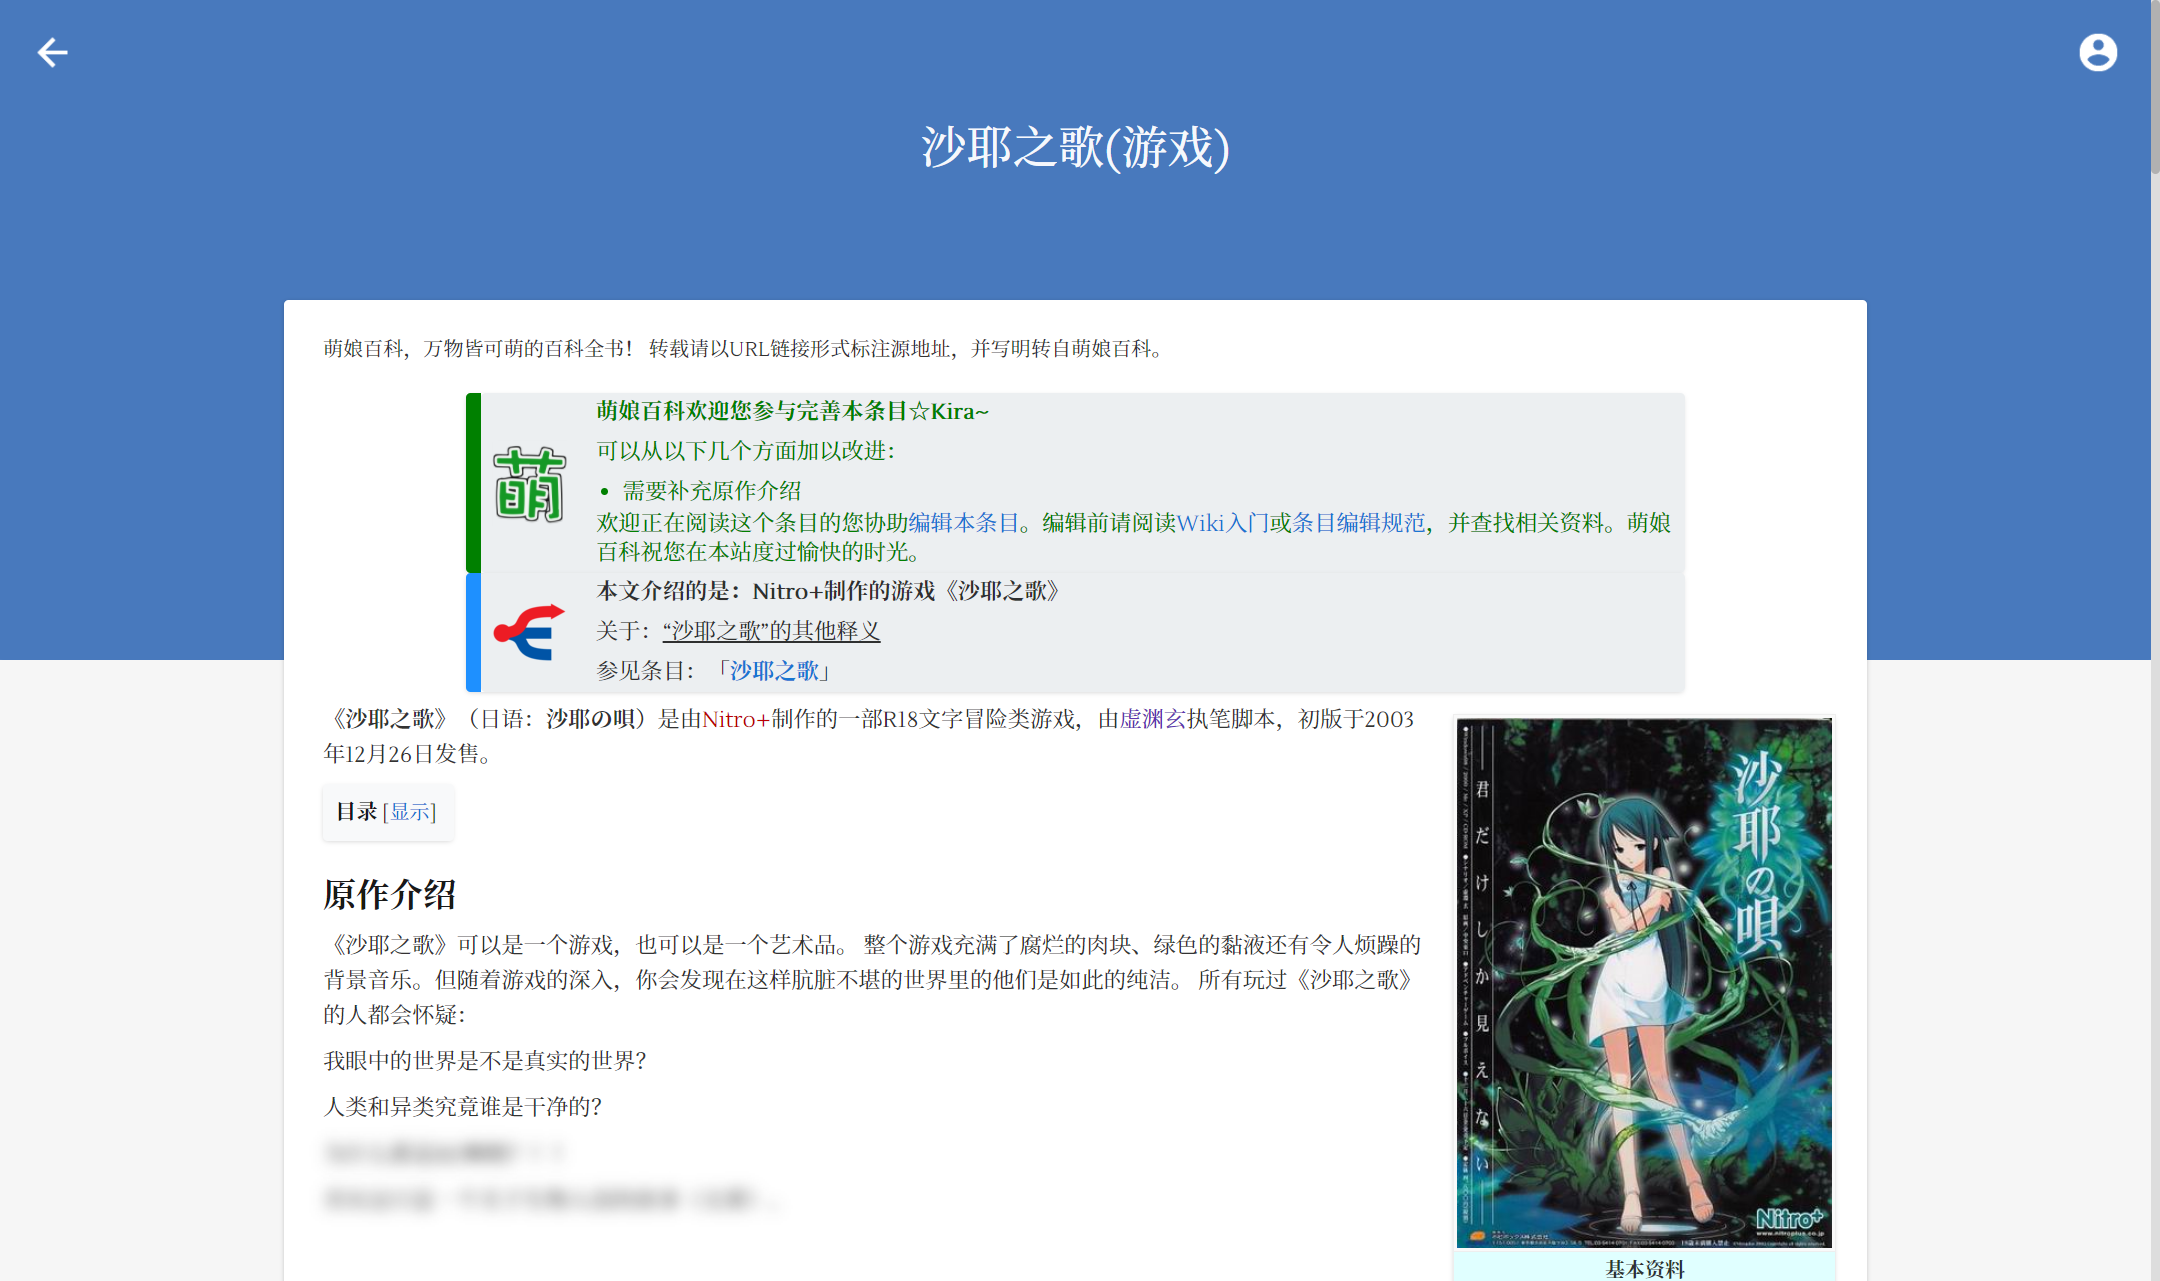
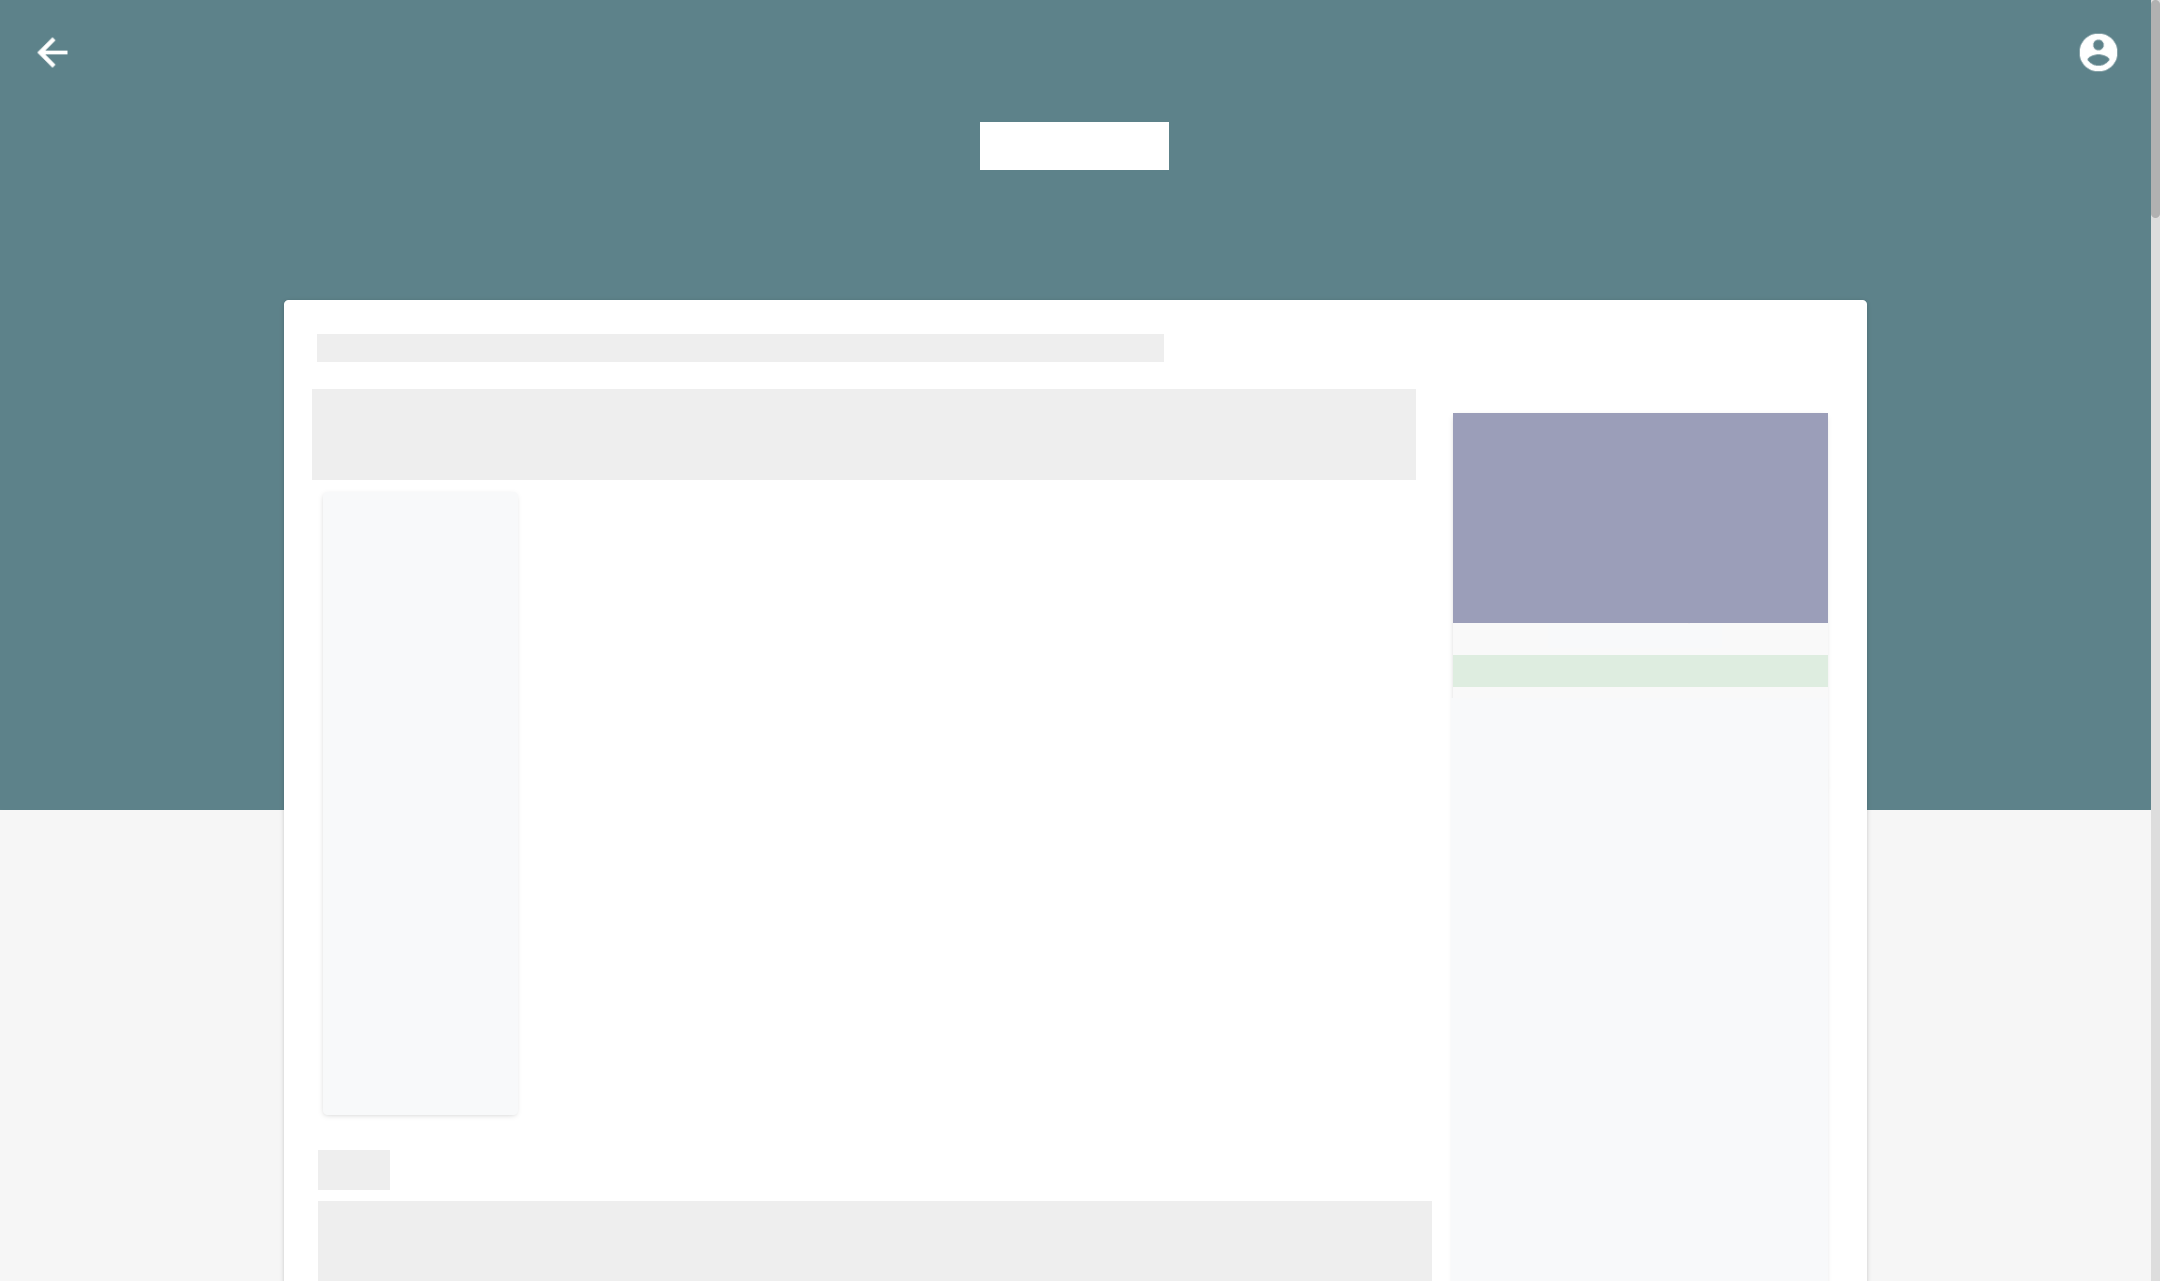
Update.

diff --git a/Anti-moe-wiki/Anti-moe-wiki.css b/Anti-moe-wiki/Anti-moe-wiki.css
@@ -119,7 +119,8 @@ kbd,
 samp,
 .mw-code,
 textarea,
-input {
+input,
+.mw-editfont-monospace {
     font-family: Menlo, Monaco, Consolas, "Andale Mono", "lucida console", "Courier New", "Noto Serif CJK SC", "HanaMinA Regular", "HanaMinB Regular", "TH-Khaai-TP0", "TH-Khaai-TP1", "TH-Khaai-TP2", monospace;
 }
 
@@ -191,8 +192,8 @@ input {
     margin-top: -5em;
     margin-left: 0 !important;
     height: 5em;
-    box-shadow: 0 140px 0 200px #4879BD;
-    background: #4879BD;
+    box-shadow: 0 140px 0 300px #5D828A;
+    background: #5D828A;
     width: 100%;
 }
 
@@ -202,7 +203,7 @@ div#p-personal {
     top: 0;
     right: 0;
     padding: 12px !important;
-    background: #4879BD;
+    background: #5D828A;
     box-shadow: 0 1px 3px 0 rgba(0, 34, 77, .05);
     border-bottom: 1px solid rgba(30, 35, 42, .06);
     justify-content: space-between;
@@ -463,7 +464,8 @@ table.navbox {
 
 pre,
 .mw-code,
-code {
+code,
+.mw-editform #wpTextbox1 {
     background: #2D2D2D;
     color: rgba(255, 255, 255, 0.8);
     border-radius: 3px;
@@ -472,7 +474,8 @@ code {
 pre::selection,
 pre a::selection,
 .mw-code::selection,
-code::selection {
+code::selection,
+.mw-editform #wpTextbox1::selection {
     color: #669900;
     background: none;
 }

diff --git a/README.md b/README.md
@@ -1,18 +1,24 @@
 # CSS-archives
-Selfish designs.
+Selfish designs by [Inchei](https://inchei.github.io).
 ## Anti Moe Wiki
-![Preview](https://raw.githubusercontent.com/inchei/CSS-archives/master/preview/preview02.png)
+### Feature
+<img src="https://raw.githubusercontent.com/inchei/CSS-archives/master/preview/preview02.png" width="500px"/>
+
 ### Environment
 * [Moegirl Wiki](https://zh.moegirl.org).
+* Other Wikis based on [Mediawiki](https://mediawiki.org)
 
 ### Usage
 * Paste the code into your vector.css and vector.js pages.
 * Edit your vector.css or vector.js pages to extend it.
 
 ## Fake Material Design Bangumi
-![Preview](https://raw.githubusercontent.com/inchei/CSS-archives/master/preview/preview01.png)
+### Feature
+<img src="https://raw.githubusercontent.com/inchei/CSS-archives/master/preview/preview01.png" width="500px"/>
+
 ### Environment
 * [Bangumi](http://bangumi.tv).
 
 ### Usage
 * Install it on [stylish](https://userstyles.org/styles/148230/bangumi-material-design).
+* Since I lost the account on stylish, you have to update it manually by pasting codes on Github.
